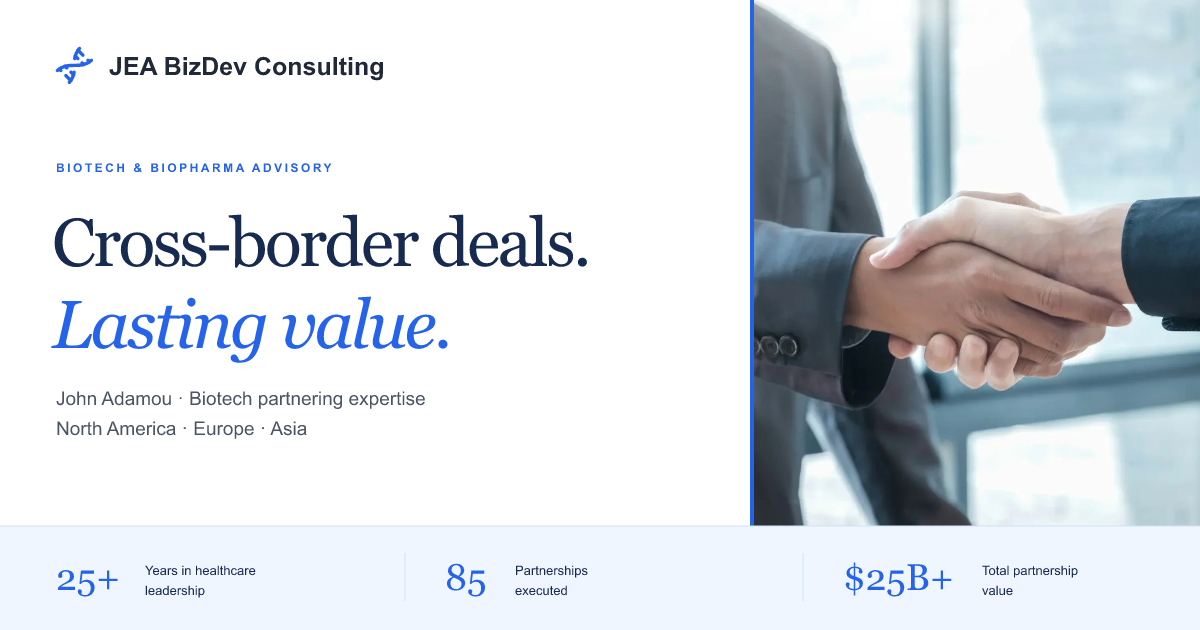
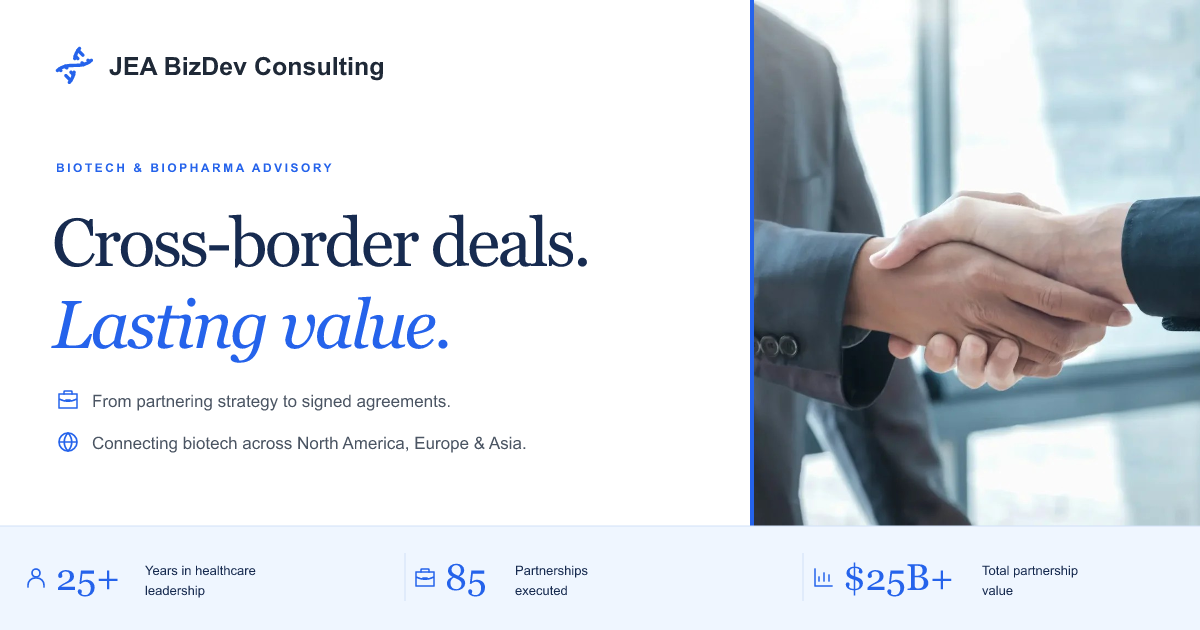
fix: clarify social preview copy and inline privacy link styling

Changed region(s): [[0.0308, 0.6032, 0.4317, 0.7238], [0.6783, 0.9048, 0.7092, 0.9349], [0.3392, 0.9048, 0.37, 0.9349]]

diff --git a/src/components/InquiryForm.tsx b/src/components/InquiryForm.tsx
@@ -175,10 +175,7 @@ export default function InquiryForm() {
           <input name="consent" type="checkbox" required />
           <span>
             I agree that JEA may use these details to respond to my inquiry.{" "}
-            <a className="text-link" href="/privacy">
-              Privacy policy
-            </a>
-            .
+            <a href="/privacy">Privacy policy</a>.
           </span>
         </label>
         <div className="form-actions">

diff --git a/src/styles/tools-search.css b/src/styles/tools-search.css
@@ -20,9 +20,6 @@
   .hero {
     gap: 100px;
   }
-  .hero h1 {
-    font-size: 4.4rem;
-  }
 }
 @media (max-width: 1200px) {
   .header-inner {
@@ -44,9 +41,6 @@
   }
   .hero {
     gap: 35px;
-  }
-  .hero h1 {
-    font-size: 3.9vw;
   }
   .footer-top {
     gap: 25px;
@@ -73,9 +67,6 @@
   }
   .header-actions {
     margin-left: auto;
-  }
-  .hero h1 {
-    font-size: 3.9vw;
   }
   .hero {
     padding-block: 55px;

diff --git a/src/styles/forms.css b/src/styles/forms.css
@@ -267,3 +267,9 @@ dialog::backdrop {
   font-size: 20px;
   font-family: var(--serif);
 }
+
+.check-field a {
+  color: var(--accent);
+  text-decoration: underline;
+  text-underline-offset: 3px;
+}

diff --git a/src/styles/mobile.css b/src/styles/mobile.css
@@ -30,9 +30,6 @@
   .search-trigger {
     padding: 6px;
   }
-  .hero h1 {
-    font-size: 3.35rem;
-  }
   .hero .eyebrow {
     font-size: 9px;
     letter-spacing: 0.13em;
